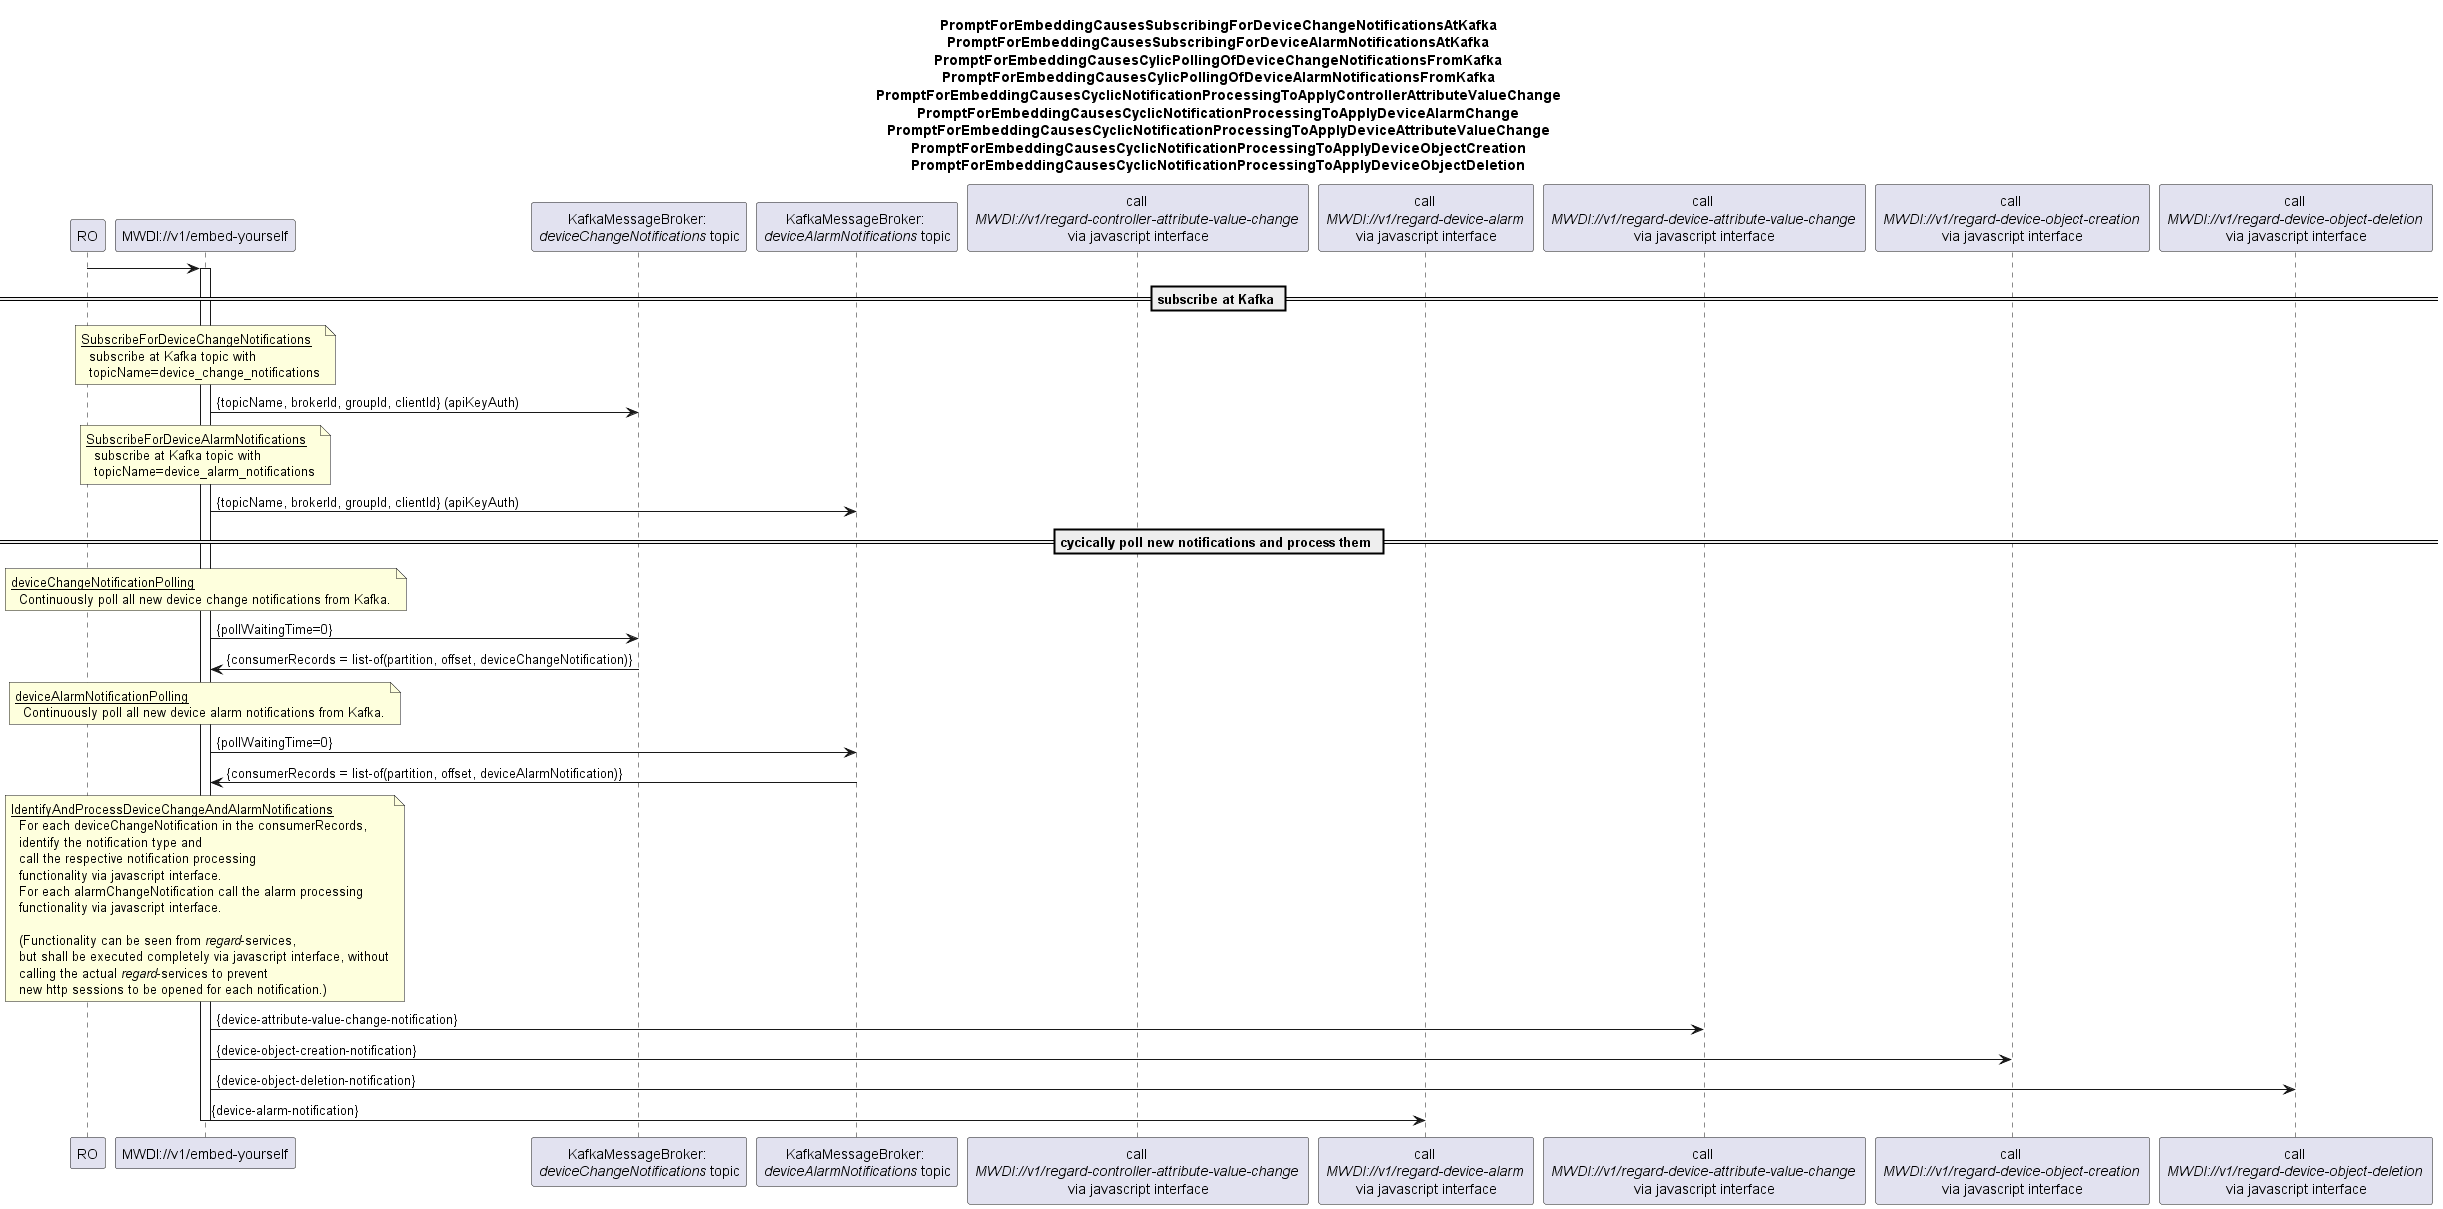
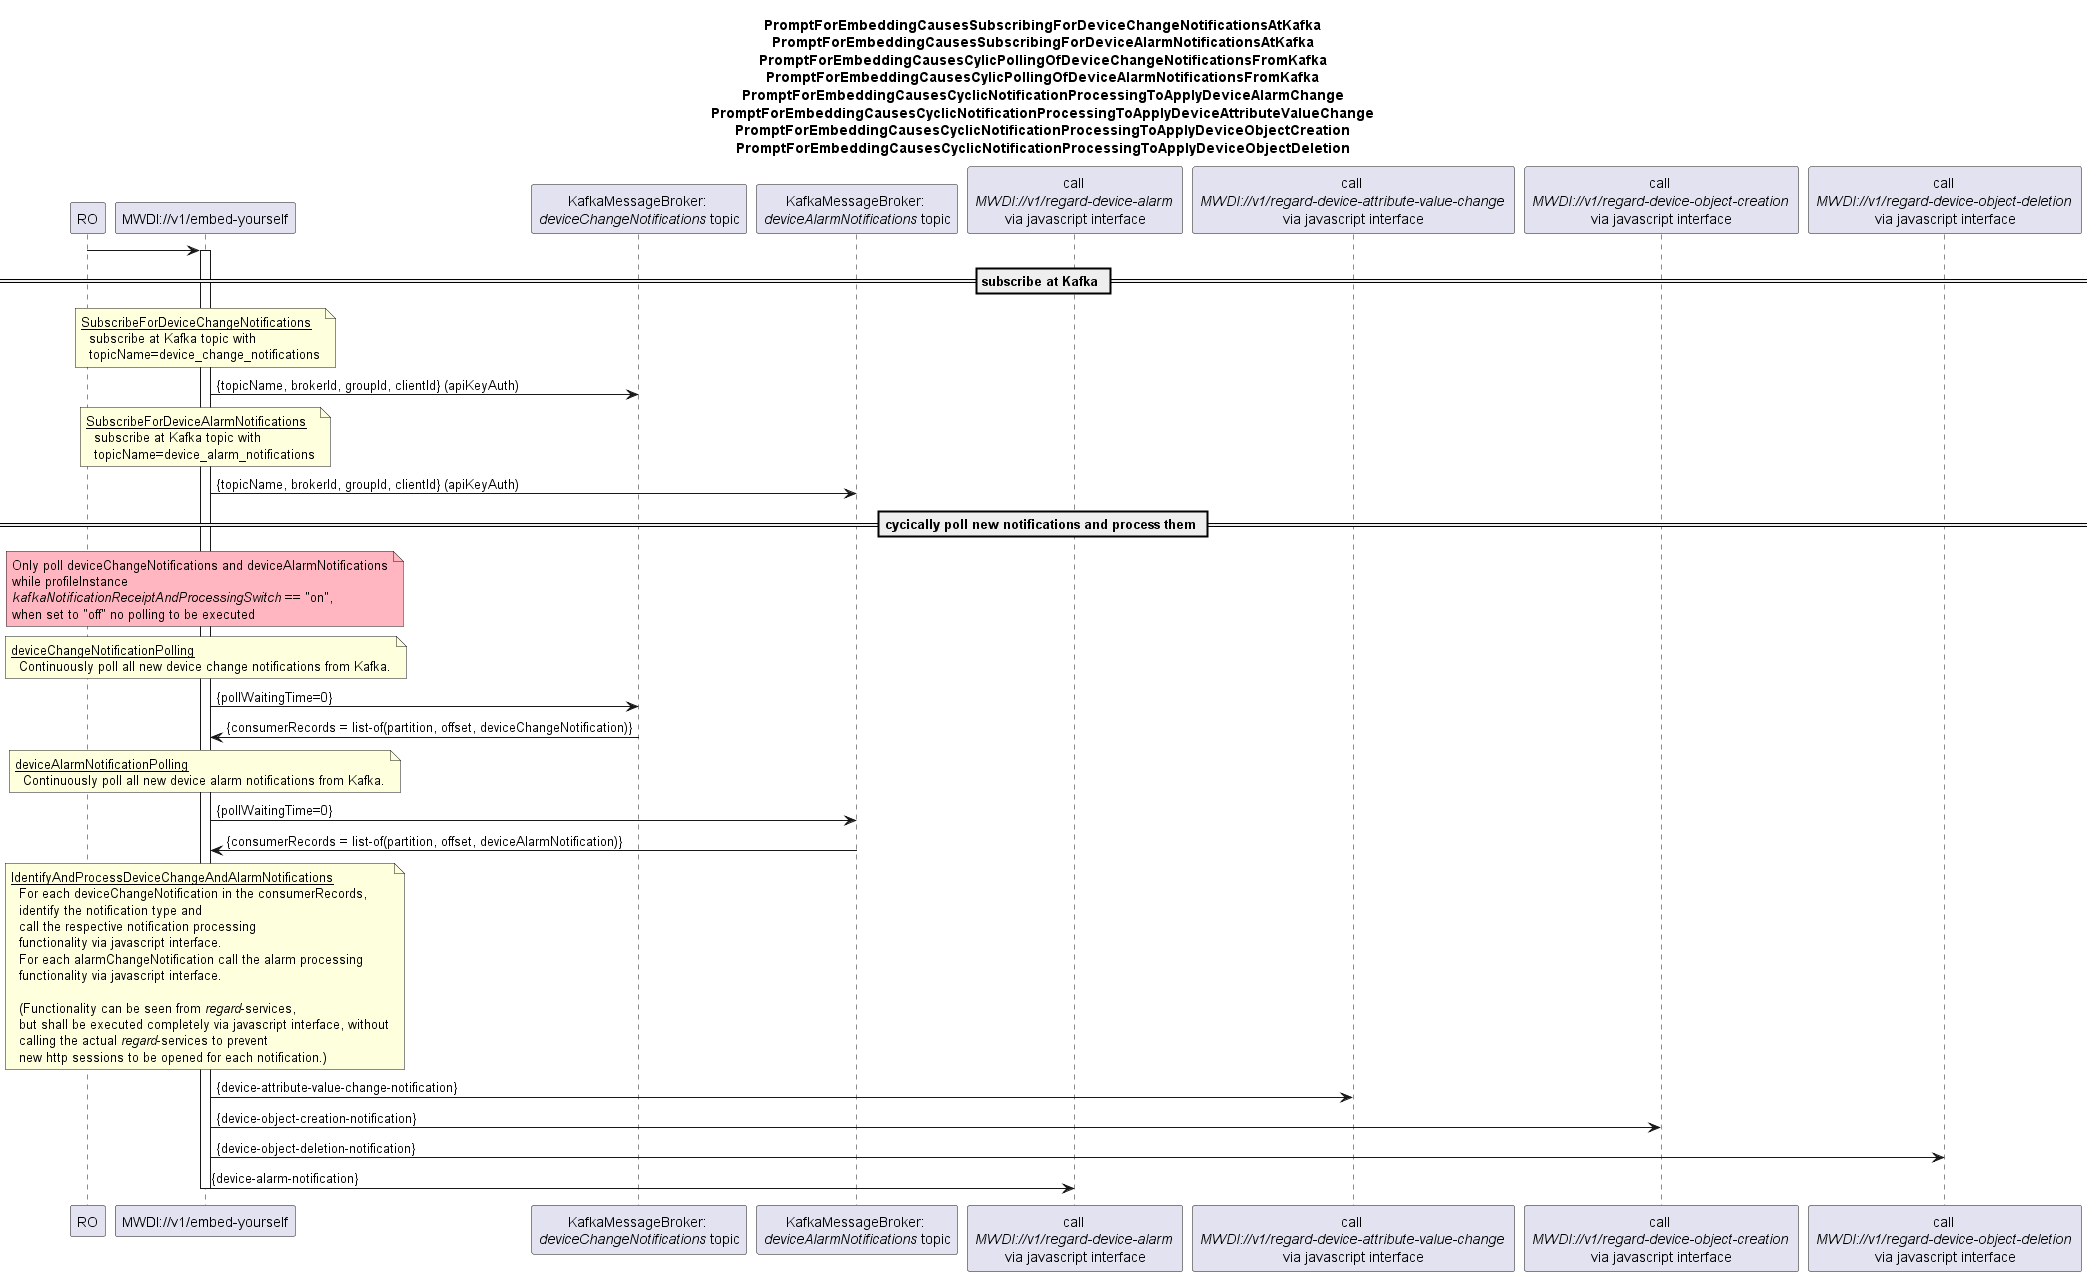
Add switch for turning receipt and processing of notifications from Kafka on/off (#1421)
Fixes #1420

Pull request: Add switch for turning receipt and processing of notifications from Kafka on/off
Fixes #1420

Changed region(s): [[0.0, 0.0, 1.0, 0.9793], [0.2175, 0.8875, 1.0, 1.0], [0.2175, 0.2754, 0.2486, 0.306]]

diff --git a/spec/additionalDescription/CyclicControlConstructRetrievalProcess.md b/spec/additionalDescription/CyclicControlConstructRetrievalProcess.md
@@ -186,6 +186,8 @@ Depending on the respective notification the cached ControlConstruct is modified
 
 Also note that in the past MWDI had a subscription to NotificationProxy, which did push the notifications to MWDI. For this, NP called the *regard*-services each time a new notification was pushed, thereby creating a new http session every time. With MWDI 2.0.0 this approach has been changed. MWDI pulls the messages from Kafka and processes the notifications then directly. For this, MWDI executes the functionality from *regard*-services internally (i.e. without opening a new http-session), which is why the *regard*-services along with their related forwardings are kept in the specification, but marked as deprecated.
 
+Polling notifications from Kafka can be switched on/off via profileInstance *kafkaNotificationReceiptAndProcessingSwitch*. If it is turned *off*, no notifications shall be fetched and processed until it is changed back to *on* (default).
+
 **User-initiated updates of ControlConstruct parts**  
 Certain parts of the ControlConstruct can be updated upon “user” demand. I.e. if another application calls a *live* path for e.g. the air interface capabilities, they are retrieved from the device and then the air interface capabilities inside the cached ControlConstruct are updated with the newly retrieved information. The other parts of the ControlConstruct are not updated by this.
 

diff --git a/README.md b/README.md
@@ -39,6 +39,7 @@ See issue collection [MWDI v2.0.1_spec](https://github.com/openBackhaul/MicroWav
 MWDI v2.0.1 also adds the following changes to notification handling diverging from v2.0.0:
 - (1) Controller notifications shall not be pulled from Kafka, but again pushed to MWDI by NotificationProxy
 - (2) Device and alarm notifications are to be pulled from Kafka from two separate topics
+- (3) Pulling of notifications from Kafka and processing them can be turned on/off via a profileInstance
 
 *Details*:  
 - for (1) the following changes were applied: